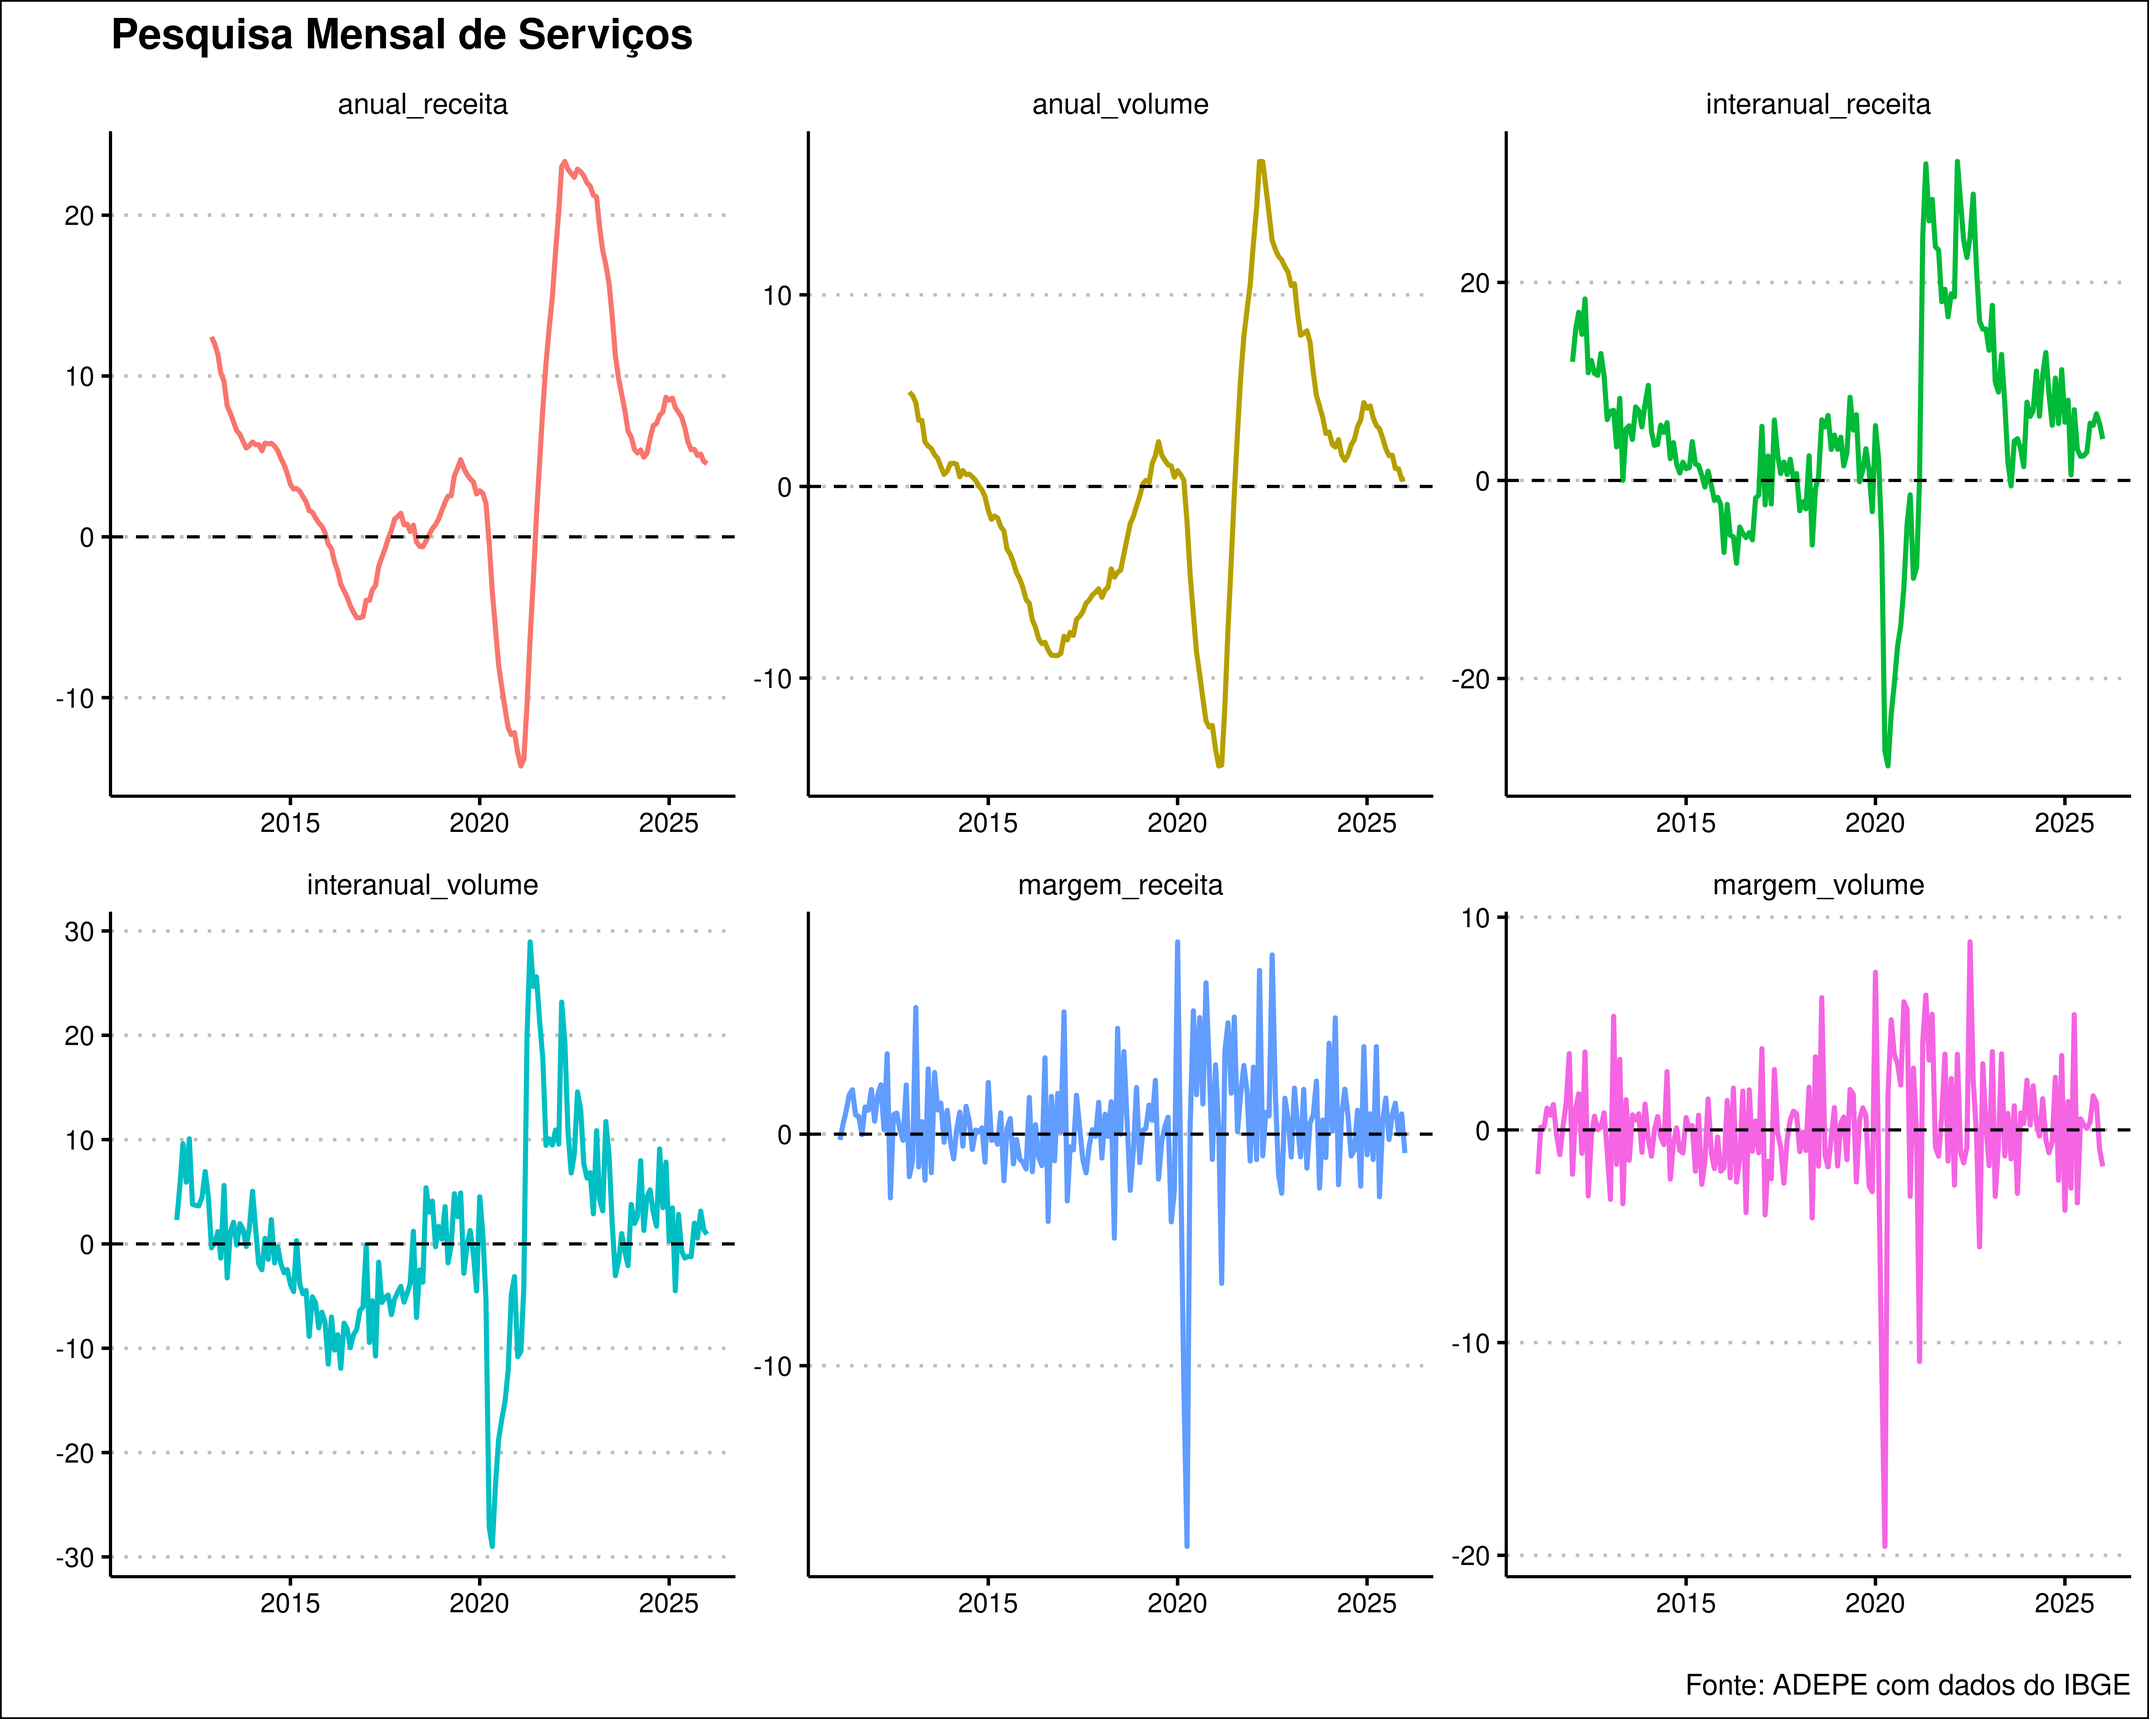
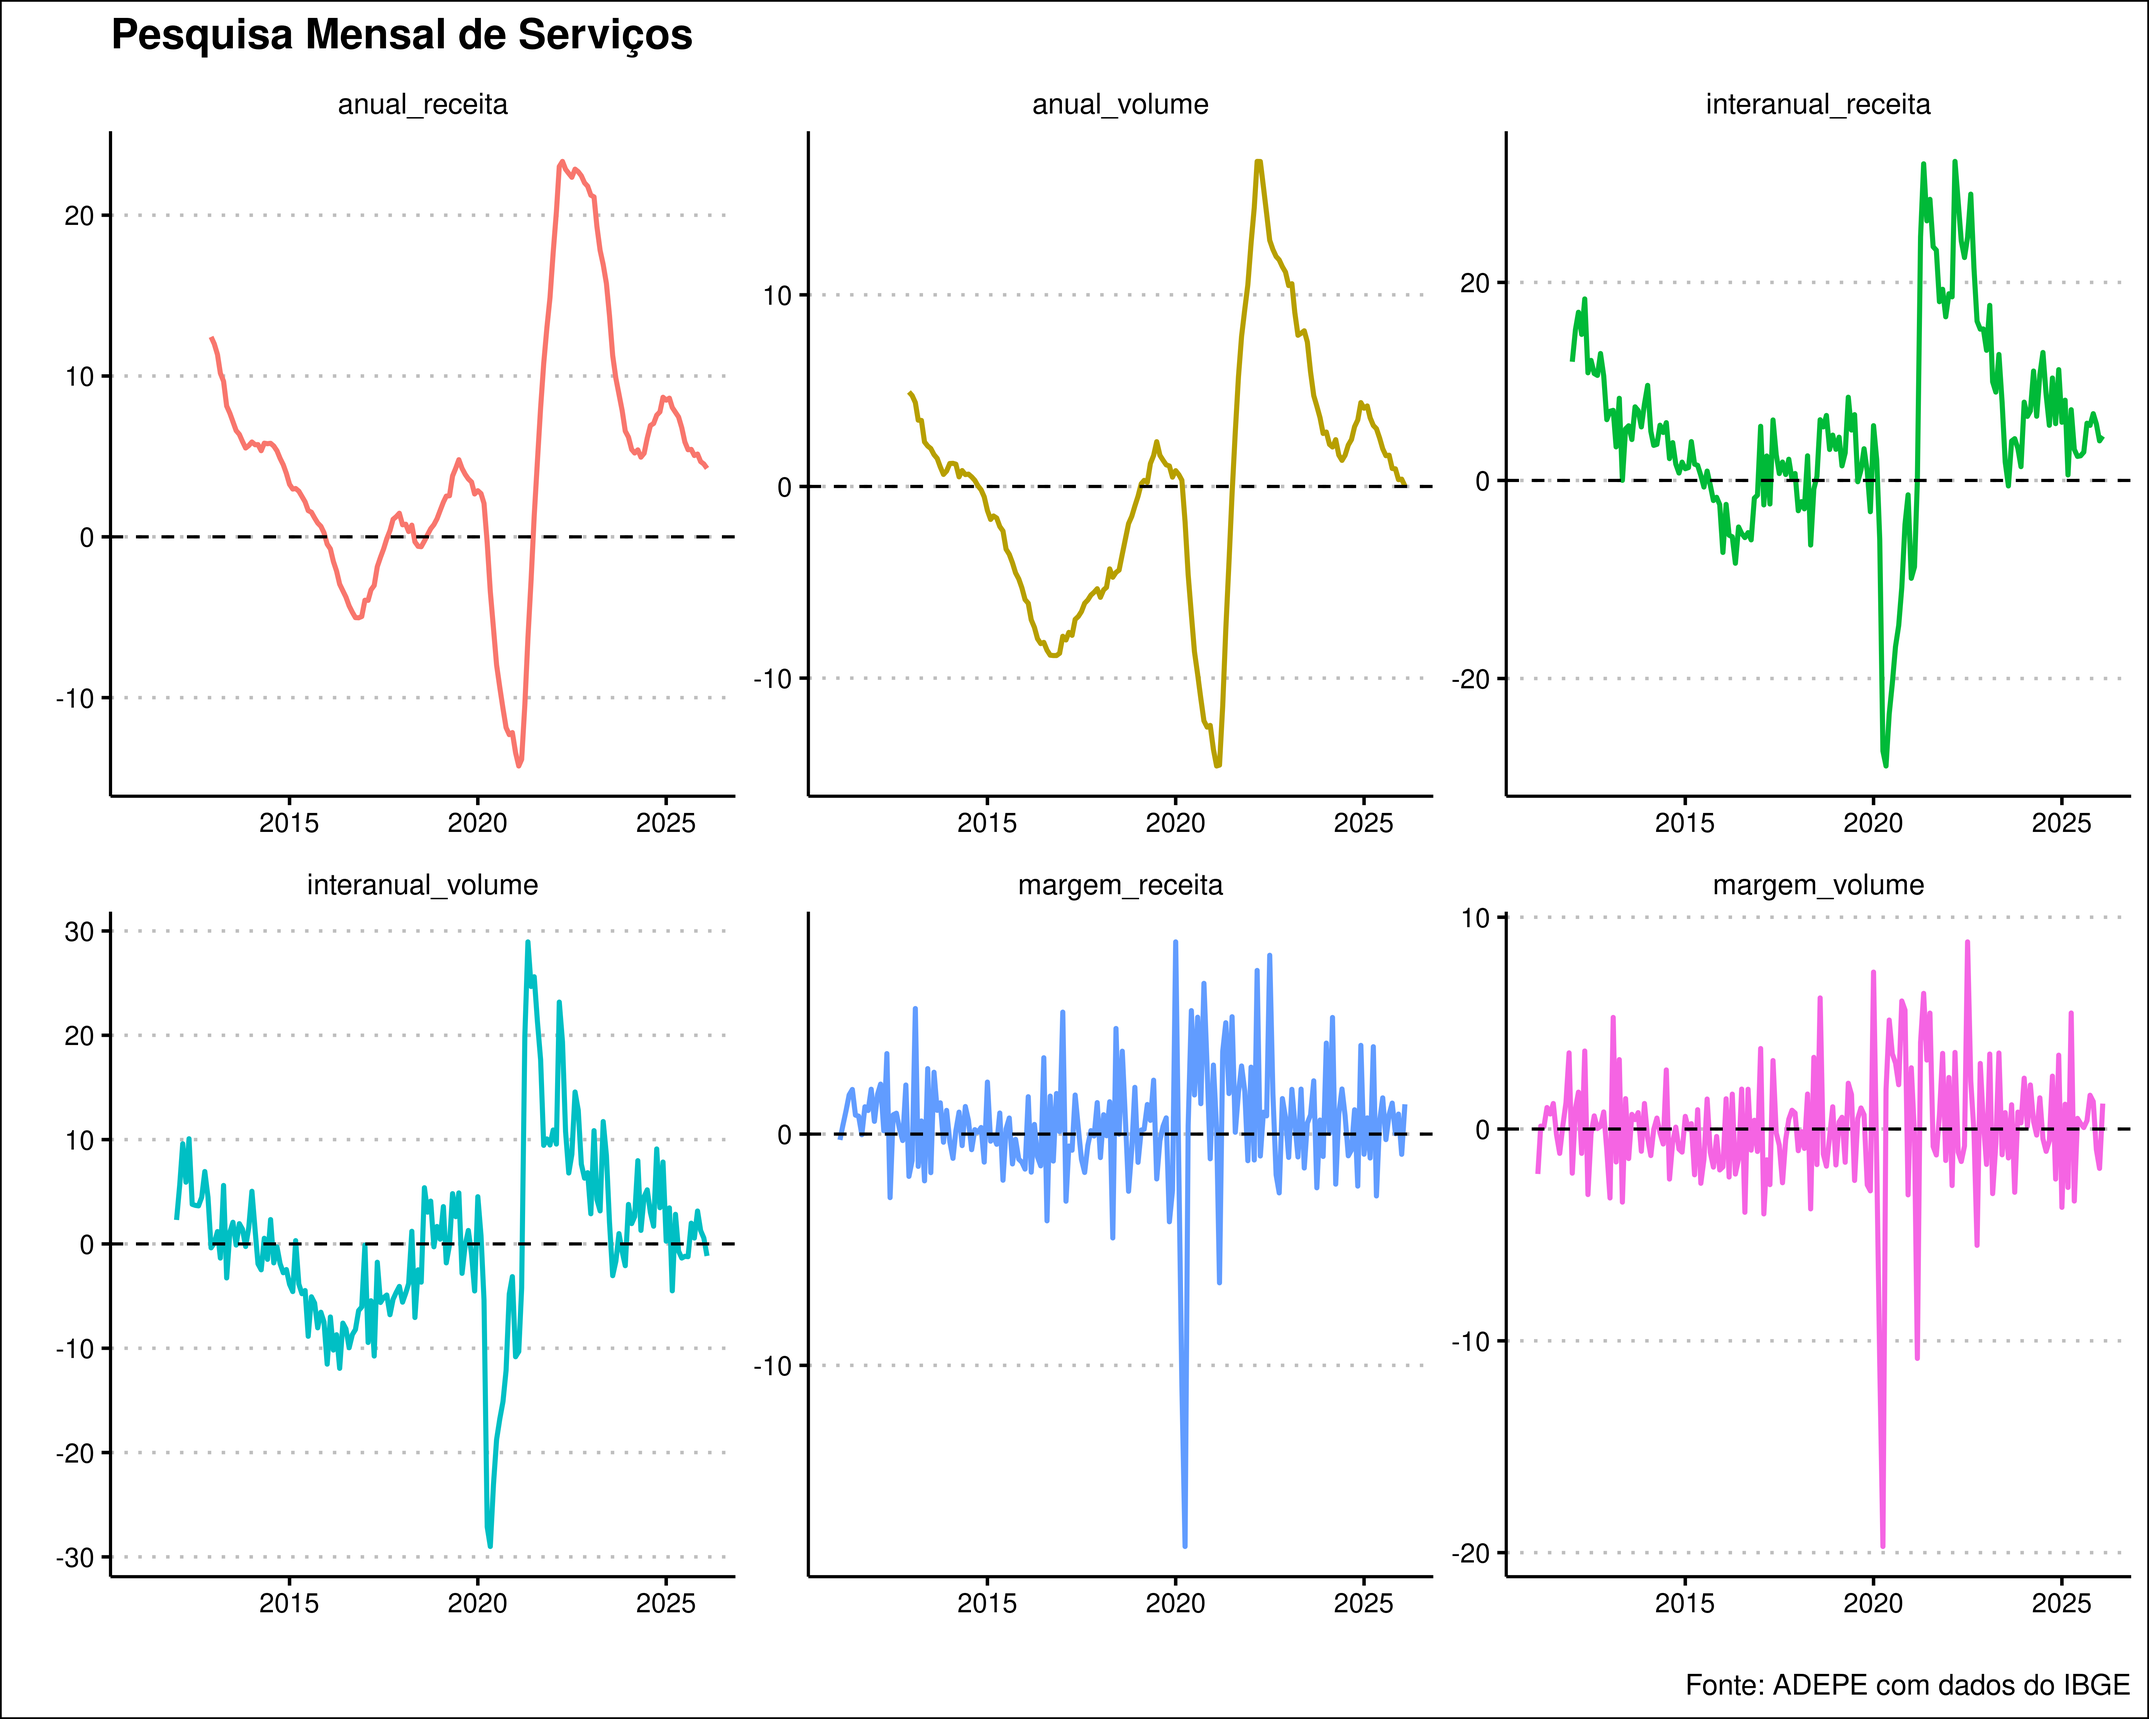
Atualização de relatório automatizada

diff --git a/pms/pms.html b/pms/pms.html
@@ -381,40 +381,40 @@ Núcleo de Dados <br><span style="font-size: 70%;">ADEPE<br><a href="https://git
 </thead>
 <tbody>
 <tr class="odd">
-<td style="text-align: left;">2025-08-01</td>
-<td style="text-align: right;">0.73</td>
-<td style="text-align: right;">6.99</td>
-<td style="text-align: right;">7.65</td>
+<td style="text-align: left;">2025-09-01</td>
+<td style="text-align: right;">0.75</td>
+<td style="text-align: right;">8.55</td>
+<td style="text-align: right;">7.69</td>
 </tr>
 <tr class="even">
-<td style="text-align: left;">2025-09-01</td>
-<td style="text-align: right;">0.70</td>
-<td style="text-align: right;">8.52</td>
-<td style="text-align: right;">7.68</td>
+<td style="text-align: left;">2025-10-01</td>
+<td style="text-align: right;">0.33</td>
+<td style="text-align: right;">7.04</td>
+<td style="text-align: right;">7.48</td>
 </tr>
 <tr class="odd">
-<td style="text-align: left;">2025-10-01</td>
-<td style="text-align: right;">0.30</td>
-<td style="text-align: right;">7.02</td>
-<td style="text-align: right;">7.47</td>
-</tr>
-<tr class="even">
 <td style="text-align: left;">2025-11-01</td>
-<td style="text-align: right;">0.57</td>
-<td style="text-align: right;">6.86</td>
+<td style="text-align: right;">0.55</td>
+<td style="text-align: right;">6.75</td>
 <td style="text-align: right;">7.52</td>
 </tr>
-<tr class="odd">
+<tr class="even">
 <td style="text-align: left;">2025-12-01</td>
-<td style="text-align: right;">-1.03</td>
-<td style="text-align: right;">7.83</td>
+<td style="text-align: right;">-0.89</td>
+<td style="text-align: right;">7.82</td>
 <td style="text-align: right;">7.62</td>
 </tr>
-<tr class="even">
+<tr class="odd">
 <td style="text-align: left;">2026-01-01</td>
-<td style="text-align: right;">2.29</td>
-<td style="text-align: right;">6.96</td>
-<td style="text-align: right;">7.66</td>
+<td style="text-align: right;">2.22</td>
+<td style="text-align: right;">6.80</td>
+<td style="text-align: right;">7.64</td>
+</tr>
+<tr class="even">
+<td style="text-align: left;">2026-02-01</td>
+<td style="text-align: right;">1.25</td>
+<td style="text-align: right;">4.97</td>
+<td style="text-align: right;">7.32</td>
 </tr>
 </tbody>
 </table>
@@ -436,40 +436,40 @@ Núcleo de Dados <br><span style="font-size: 70%;">ADEPE<br><a href="https://git
 </thead>
 <tbody>
 <tr class="odd">
-<td style="text-align: left;">2025-08-01</td>
-<td style="text-align: right;">0.20</td>
-<td style="text-align: right;">2.45</td>
-<td style="text-align: right;">3.08</td>
+<td style="text-align: left;">2025-09-01</td>
+<td style="text-align: right;">0.70</td>
+<td style="text-align: right;">4.25</td>
+<td style="text-align: right;">3.13</td>
 </tr>
 <tr class="even">
-<td style="text-align: left;">2025-09-01</td>
-<td style="text-align: right;">0.71</td>
-<td style="text-align: right;">4.22</td>
-<td style="text-align: right;">3.12</td>
+<td style="text-align: left;">2025-10-01</td>
+<td style="text-align: right;">0.24</td>
+<td style="text-align: right;">2.24</td>
+<td style="text-align: right;">2.78</td>
 </tr>
 <tr class="odd">
-<td style="text-align: left;">2025-10-01</td>
-<td style="text-align: right;">0.38</td>
-<td style="text-align: right;">2.21</td>
-<td style="text-align: right;">2.77</td>
-</tr>
-<tr class="even">
 <td style="text-align: left;">2025-11-01</td>
-<td style="text-align: right;">-0.03</td>
-<td style="text-align: right;">2.74</td>
+<td style="text-align: right;">0.01</td>
+<td style="text-align: right;">2.64</td>
 <td style="text-align: right;">2.79</td>
 </tr>
-<tr class="odd">
+<tr class="even">
 <td style="text-align: left;">2025-12-01</td>
-<td style="text-align: right;">-0.25</td>
-<td style="text-align: right;">3.61</td>
+<td style="text-align: right;">-0.22</td>
+<td style="text-align: right;">3.60</td>
 <td style="text-align: right;">2.86</td>
 </tr>
-<tr class="even">
+<tr class="odd">
 <td style="text-align: left;">2026-01-01</td>
-<td style="text-align: right;">0.28</td>
-<td style="text-align: right;">3.34</td>
-<td style="text-align: right;">3.03</td>
+<td style="text-align: right;">0.16</td>
+<td style="text-align: right;">3.16</td>
+<td style="text-align: right;">3.02</td>
+</tr>
+<tr class="even">
+<td style="text-align: left;">2026-02-01</td>
+<td style="text-align: right;">0.06</td>
+<td style="text-align: right;">0.54</td>
+<td style="text-align: right;">2.72</td>
 </tr>
 </tbody>
 </table>
@@ -517,40 +517,40 @@ Núcleo de Dados <br><span style="font-size: 70%;">ADEPE<br><a href="https://git
 </thead>
 <tbody>
 <tr class="odd">
-<td style="text-align: left;">2025-08-01</td>
-<td style="text-align: right;">-0.23</td>
-<td style="text-align: right;">2.86</td>
-<td style="text-align: right;">5.42</td>
-</tr>
-<tr class="even">
 <td style="text-align: left;">2025-09-01</td>
-<td style="text-align: right;">0.84</td>
+<td style="text-align: right;">0.85</td>
 <td style="text-align: right;">5.78</td>
 <td style="text-align: right;">5.44</td>
 </tr>
-<tr class="odd">
+<tr class="even">
 <td style="text-align: left;">2025-10-01</td>
 <td style="text-align: right;">1.34</td>
 <td style="text-align: right;">5.56</td>
 <td style="text-align: right;">5.06</td>
 </tr>
-<tr class="even">
-<td style="text-align: left;">2025-11-01</td>
-<td style="text-align: right;">0.00</td>
-<td style="text-align: right;">6.73</td>
-<td style="text-align: right;">5.14</td>
-</tr>
 <tr class="odd">
+<td style="text-align: left;">2025-11-01</td>
+<td style="text-align: right;">0.02</td>
+<td style="text-align: right;">6.74</td>
+<td style="text-align: right;">5.15</td>
+</tr>
+<tr class="even">
 <td style="text-align: left;">2025-12-01</td>
-<td style="text-align: right;">0.88</td>
-<td style="text-align: right;">5.77</td>
+<td style="text-align: right;">0.86</td>
+<td style="text-align: right;">5.71</td>
 <td style="text-align: right;">4.68</td>
 </tr>
-<tr class="even">
+<tr class="odd">
 <td style="text-align: left;">2026-01-01</td>
-<td style="text-align: right;">-0.82</td>
-<td style="text-align: right;">4.19</td>
-<td style="text-align: right;">4.55</td>
+<td style="text-align: right;">-0.87</td>
+<td style="text-align: right;">4.00</td>
+<td style="text-align: right;">4.53</td>
+</tr>
+<tr class="even">
+<td style="text-align: left;">2026-02-01</td>
+<td style="text-align: right;">1.29</td>
+<td style="text-align: right;">4.47</td>
+<td style="text-align: right;">4.26</td>
 </tr>
 </tbody>
 </table>
@@ -572,40 +572,40 @@ Núcleo de Dados <br><span style="font-size: 70%;">ADEPE<br><a href="https://git
 </thead>
 <tbody>
 <tr class="odd">
-<td style="text-align: left;">2025-08-01</td>
-<td style="text-align: right;">0.07</td>
-<td style="text-align: right;">-1.22</td>
-<td style="text-align: right;">1.61</td>
-</tr>
-<tr class="even">
 <td style="text-align: left;">2025-09-01</td>
-<td style="text-align: right;">0.37</td>
+<td style="text-align: right;">0.39</td>
 <td style="text-align: right;">1.99</td>
 <td style="text-align: right;">1.63</td>
 </tr>
-<tr class="odd">
+<tr class="even">
 <td style="text-align: left;">2025-10-01</td>
-<td style="text-align: right;">1.60</td>
+<td style="text-align: right;">1.59</td>
 <td style="text-align: right;">0.56</td>
 <td style="text-align: right;">0.94</td>
 </tr>
-<tr class="even">
+<tr class="odd">
 <td style="text-align: left;">2025-11-01</td>
-<td style="text-align: right;">1.28</td>
-<td style="text-align: right;">3.14</td>
+<td style="text-align: right;">1.30</td>
+<td style="text-align: right;">3.15</td>
 <td style="text-align: right;">0.92</td>
 </tr>
-<tr class="odd">
+<tr class="even">
 <td style="text-align: left;">2025-12-01</td>
-<td style="text-align: right;">-0.89</td>
-<td style="text-align: right;">1.34</td>
+<td style="text-align: right;">-0.97</td>
+<td style="text-align: right;">1.28</td>
 <td style="text-align: right;">0.36</td>
 </tr>
-<tr class="even">
+<tr class="odd">
 <td style="text-align: left;">2026-01-01</td>
-<td style="text-align: right;">-1.71</td>
-<td style="text-align: right;">0.92</td>
-<td style="text-align: right;">0.41</td>
+<td style="text-align: right;">-1.86</td>
+<td style="text-align: right;">0.56</td>
+<td style="text-align: right;">0.38</td>
+</tr>
+<tr class="even">
+<td style="text-align: left;">2026-02-01</td>
+<td style="text-align: right;">1.20</td>
+<td style="text-align: right;">-1.15</td>
+<td style="text-align: right;">0.03</td>
 </tr>
 </tbody>
 </table>
